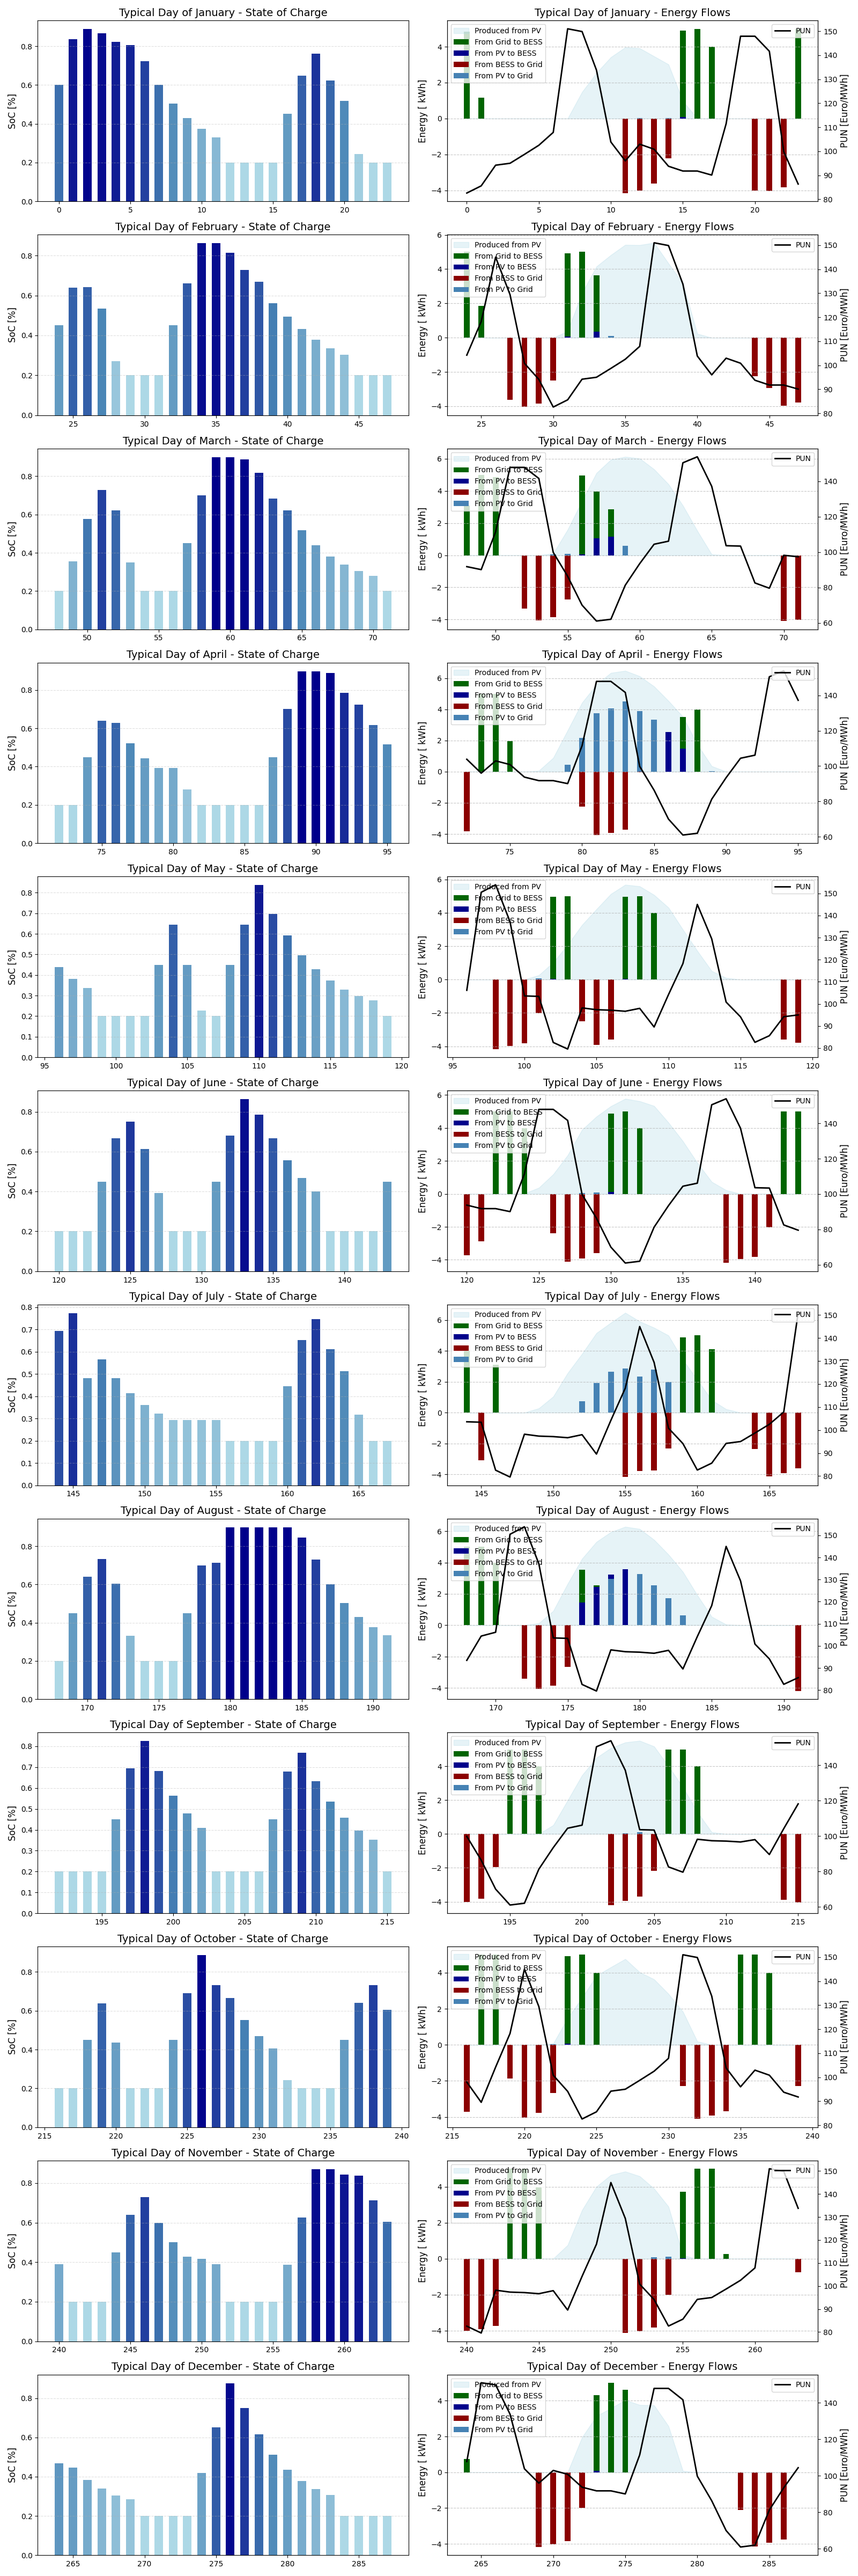
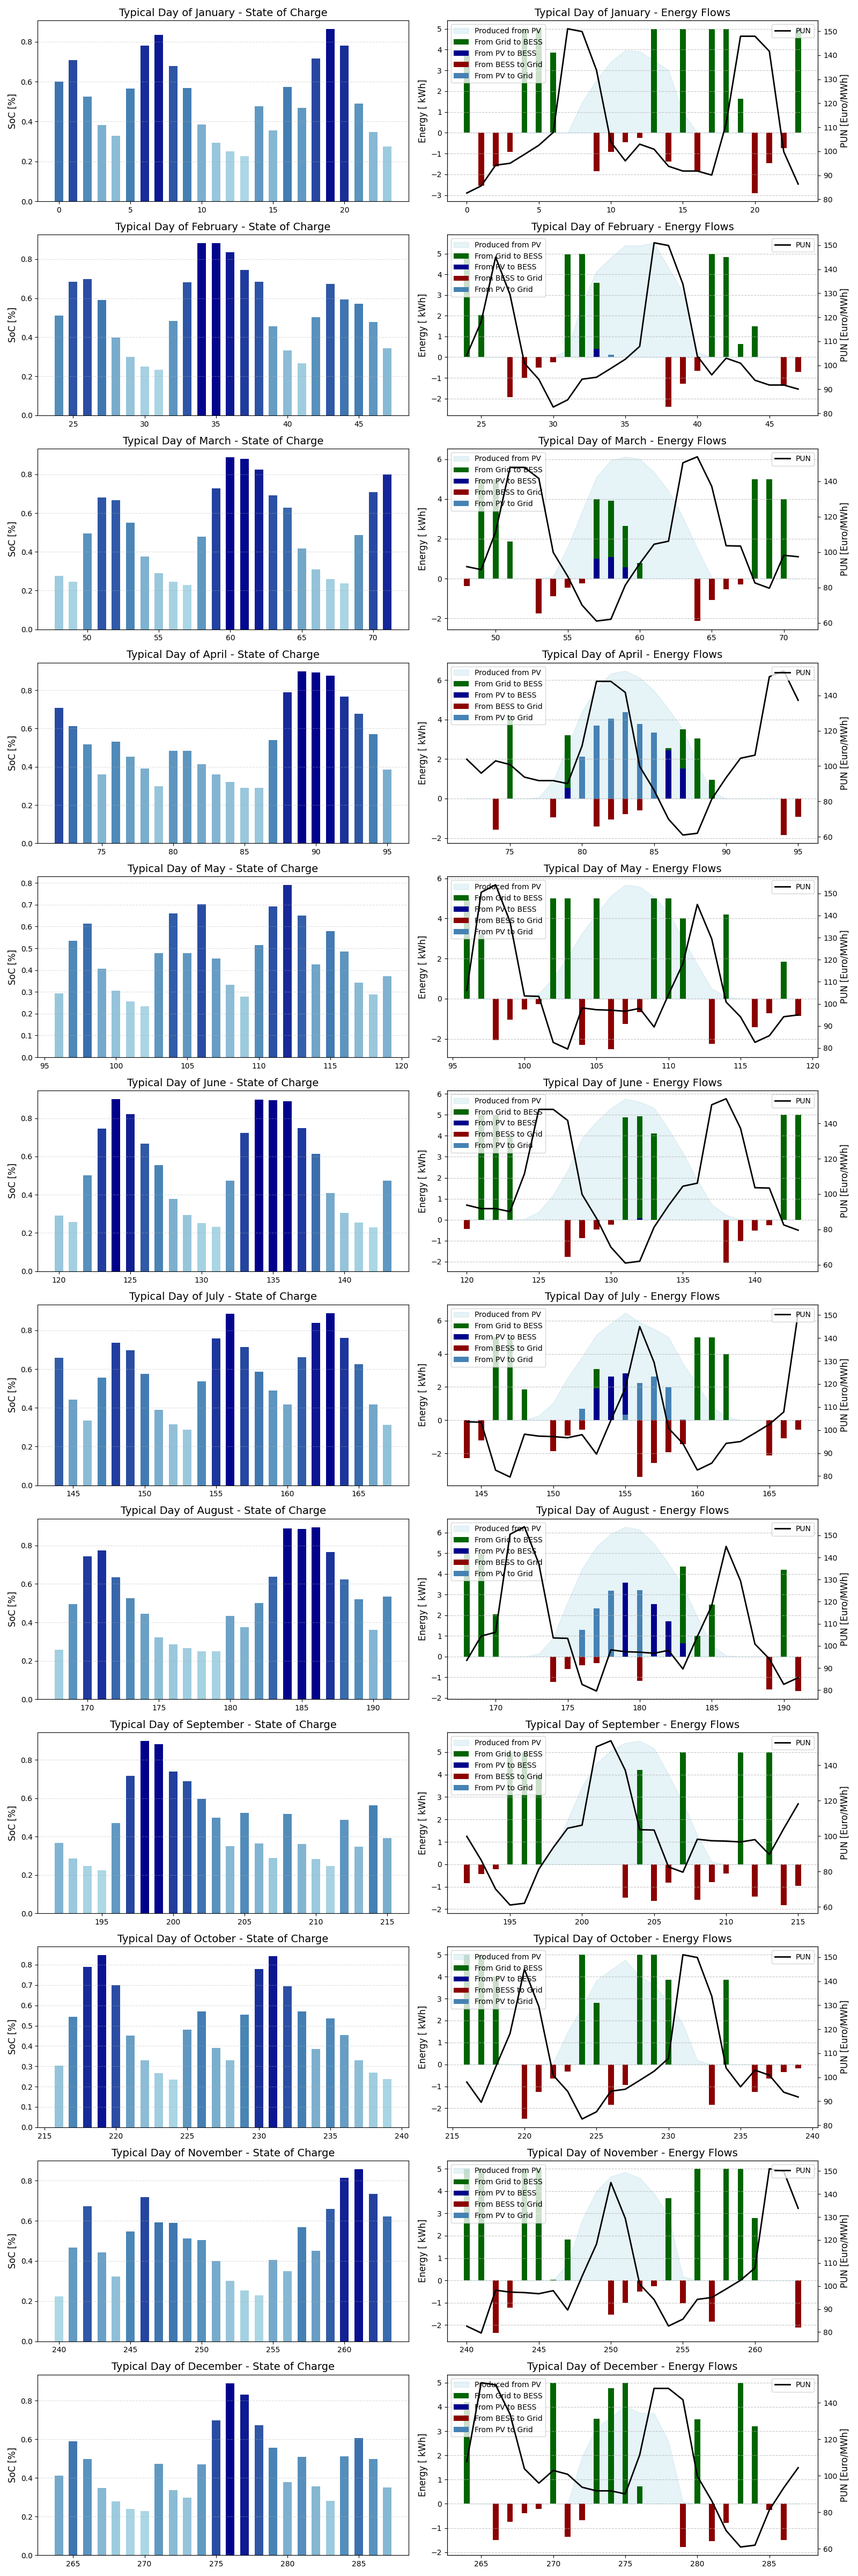
Updating BESS Model

diff --git a/bess_optimization/short_simulation/BESS_model_s.py b/bess_optimization/short_simulation/BESS_model_s.py
@@ -93,12 +93,11 @@ class BESS_model:
             soc_max = min(self.soc_max, max_capacity)
 
             # IF BESS IS CHARGING
-            if self.c_d_timeseries[index] >= 0.0:
+            if self.c_d_timeseries[index] > 0.0:
 
-                # EVALUATE THE PHYSICAL CONSTRAINTS OF BESS TO AVOID OVERCHARGNING
-                #TODO THIS THING SHOULD BE DONE USING A FUNCTION CONTAINED IN A FILE NAMED CONSTRAINER
+                # EVALUATE THE PHYSICAL CONSTRAINTS OF BESS TO AVOID OVERCHARGING
 
-                # THE BESS CAN CHARGE THE MINIMUM BETWEEN WHAT'S DEFINED IN C/D_Timeseries (what quantity the agorithm
+                # THE BESS CAN CHARGE THE MINIMUM BETWEEN WHAT'S DEFINED IN C/D_Timeseries (what quantity the algorithm
                 # would like to charge), HOW MUCH THE BESS CAN CHARGE BASED ON ITS ACTUAL SoC
                 # (self.c_func(self.soc[index])), AND HOW MUCH CAN HE CHARGE LEFT (soc_max - self.soc[index])
 
@@ -116,9 +115,7 @@ class BESS_model:
 
             # IF BESS IS DISCHARGING (specular case as charging)
 
-                # TODO THIS THING SHOULD BE DONE USING A FUNCTION CONTAINED IN A FILE NAMED CONSTRAINER
-
-            else:
+            elif self.c_d_timeseries[index] < 0:
 
                 self.c_d_timeseries[index] = np.maximum(
                     self.c_d_timeseries[index],
@@ -131,10 +128,15 @@ class BESS_model:
                     self.c_d_timeseries[index],
                     np.array(-power_energy)
                 )
-            # IF BESS IS DISCHARGING
-            if self.c_d_timeseries[index] >= 0:
 
-                # EVALAUTE CHARGED ENERGY INTO THE BESS
+            else:
+                self.c_d_timeseries[index] = 0
+
+            # EVALUATE ENERGY FLOWS
+
+            if self.c_d_timeseries[index] > 0:
+
+                # EVALUATE CHARGED ENERGY INTO THE BESS
 
                 self.charged_energy[index] = self.c_d_timeseries[index] * self.size
 
@@ -163,7 +165,7 @@ class BESS_model:
             # UPDATE SoC AT TIMESTEP t + 1
 
             # IF BESS IS CHARGING
-            if self.c_d_timeseries[index] >= 0.0:
+            if self.c_d_timeseries[index] > 0.0:
 
                 # INCREASE SoC
                 self.soc[index + 1] = np.minimum(soc_max, self.soc[index] + self.charged_energy[index] / self.size)
@@ -173,7 +175,7 @@ class BESS_model:
                 self.discharged_energy[index] = 0.0
 
             # IF BESS IS DISCHARGING
-            else:
+            elif self.c_d_timeseries[index] < 0.0:
 
                 # DECREASE SoC (discharged_energy is negative)
                 self.soc[index + 1] = np.maximum(soc_min, self.soc[index] + self.discharged_energy[index] / self.size)
@@ -181,6 +183,12 @@ class BESS_model:
                 # RE-EVALUATE DISCHARGED ENERGY
                 self.discharged_energy[index] = (self.soc[index+1] - self.soc[index])*self.size
                 self.charged_energy[index] = 0
+
+            else:
+
+                self.discharged_energy[index] = 0
+                self.charged_energy[index] = 0
+                self.soc[index + 1] = self.soc[index]
 
             # N_CYCLES UPDATE FOR EACH TIMESTEP
             total_energy = self.charged_energy[index] + np.abs(self.discharged_energy[index])

diff --git a/bess_optimization/short_simulation/Plots_s.py b/bess_optimization/short_simulation/Plots_s.py
@@ -1,6 +1,4 @@
-"""
-
-BESS Optimization using NSGA-III Algorithm
+""" BESS Optimization using NSGA-III Algorithm
 
     __author__ = "Lorenzo Giannuzzo"
     __maintainer__ = "Lorenzo Giannuzzo"
@@ -9,9 +7,7 @@ BESS Optimization using NSGA-III Algorithm
     __version__ = "v0.2.1"
     __license__ = "MIT"
 
-Last Update of current code: 09/01/2025 - 17:49
-
-"""
+Last Update of current code: 26/02/2025 """
 
 # IMPORT LIBRARIES
 import os
@@ -507,14 +503,10 @@ class EnergyPlots:
         ax1.fill_between(time_steps, 0, produced_from_pv, color='lightblue', alpha=0.3, label='Produced from PV')
         width = 0.4
         ax1.bar(time_steps, [1] * np.array(taken_from_grid), width=width, color='darkgreen', label='From Grid to BESS')
-        ax1.bar(time_steps, taken_from_pv, color='darkblue', bottom=-discharged_from_pv + np.array(from_pv_to_load),
-                width=width, label='From PV to BESS')
-        ax1.bar(time_steps, from_pv_to_load, color='cyan',
-                width=width, label='From PV to Load')
-        ax1.bar(time_steps, from_BESS_to_load, color='lime',
-                width=width, label='From BESS to Load', bottom = -discharged_from_pv + np.array(from_pv_to_load) + np.array(taken_from_pv))
-        ax1.bar(time_steps, discharged_energy, width=width, color='darkred', bottom=np.array(taken_from_grid),
-                label='From BESS to Grid')
+        ax1.bar(time_steps, taken_from_pv, color='darkblue', bottom=-discharged_from_pv + np.array(from_pv_to_load), width=width, label='From PV to BESS')
+        ax1.bar(time_steps, from_pv_to_load, color='cyan', width=width, label='From PV to Load')
+        ax1.bar(time_steps, from_BESS_to_load, color='lime', width=width, label='From BESS to Load', bottom = -discharged_from_pv + np.array(from_pv_to_load) + np.array(taken_from_pv))
+        ax1.bar(time_steps, discharged_energy, width=width, color='darkred', bottom=np.array(taken_from_grid),label='From BESS to Grid')
         ax1.bar(time_steps, -discharged_from_pv, width=width, label='From PV to Grid', bottom = from_pv_to_load)
 
         ax1.set_ylabel('Energy [kWh]')

diff --git a/bess_optimization/short_simulation/main_s.py b/bess_optimization/short_simulation/main_s.py
@@ -1,6 +1,4 @@
-"""
-
-BESS Optimization using NSGA-III Algorithm
+""" BESS Optimization using NSGA-III Algorithm
 
     __author__ = "Lorenzo Giannuzzo"
     __maintainer__ = "Lorenzo Giannuzzo"
@@ -9,9 +7,7 @@ BESS Optimization using NSGA-III Algorithm
     __version__ = "v0.2.1"
     __license__ = "MIT"
 
-Last Update of current code: 09/01/2025 - 17:18
-
-"""
+Last Update of current code: 26/02/2025 """
 
 # IMPORTING LIBRARIES AND MODULES FROM PROJECT
 import numpy as np  # Numerical operations
